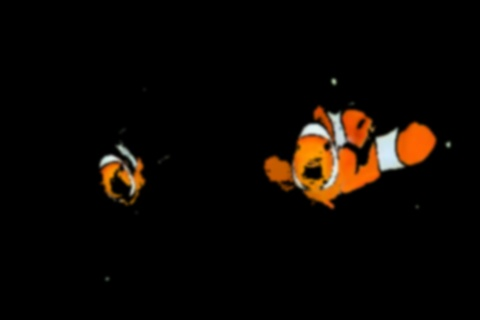
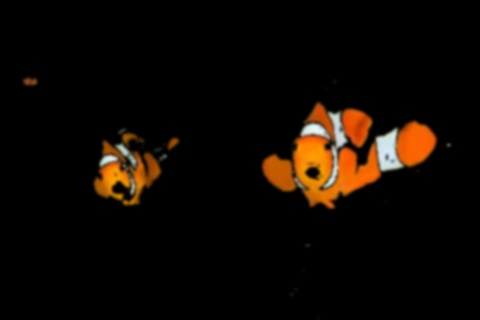
Fix colour selection

diff --git a/color_segmentation/main.py b/color_segmentation/main.py
@@ -53,8 +53,8 @@ plt.show()
 
 #%%
 # Picking Out a Range
-light_orange = (1, 90, 190)
-dark_orange = (18, 255, 255)
+light_orange = (1, 180, 125)
+dark_orange = (19, 255, 255)
 
 # Threshold the clownfish
 mask = cv2.inRange(hsv_fish, light_orange, dark_orange)
@@ -71,8 +71,8 @@ plt.show()
 
 #%%
 # Getting the white/blue colours as well
-light_white = (0, 0, 200)
-dark_white = (145, 60, 255)
+light_white = (0, 0, 180)
+dark_white = (145, 45, 255)
 
 mask_white = cv2.inRange(hsv_fish, light_white, dark_white)
 result_white = cv2.bitwise_and(fish, fish, mask=mask_white)
